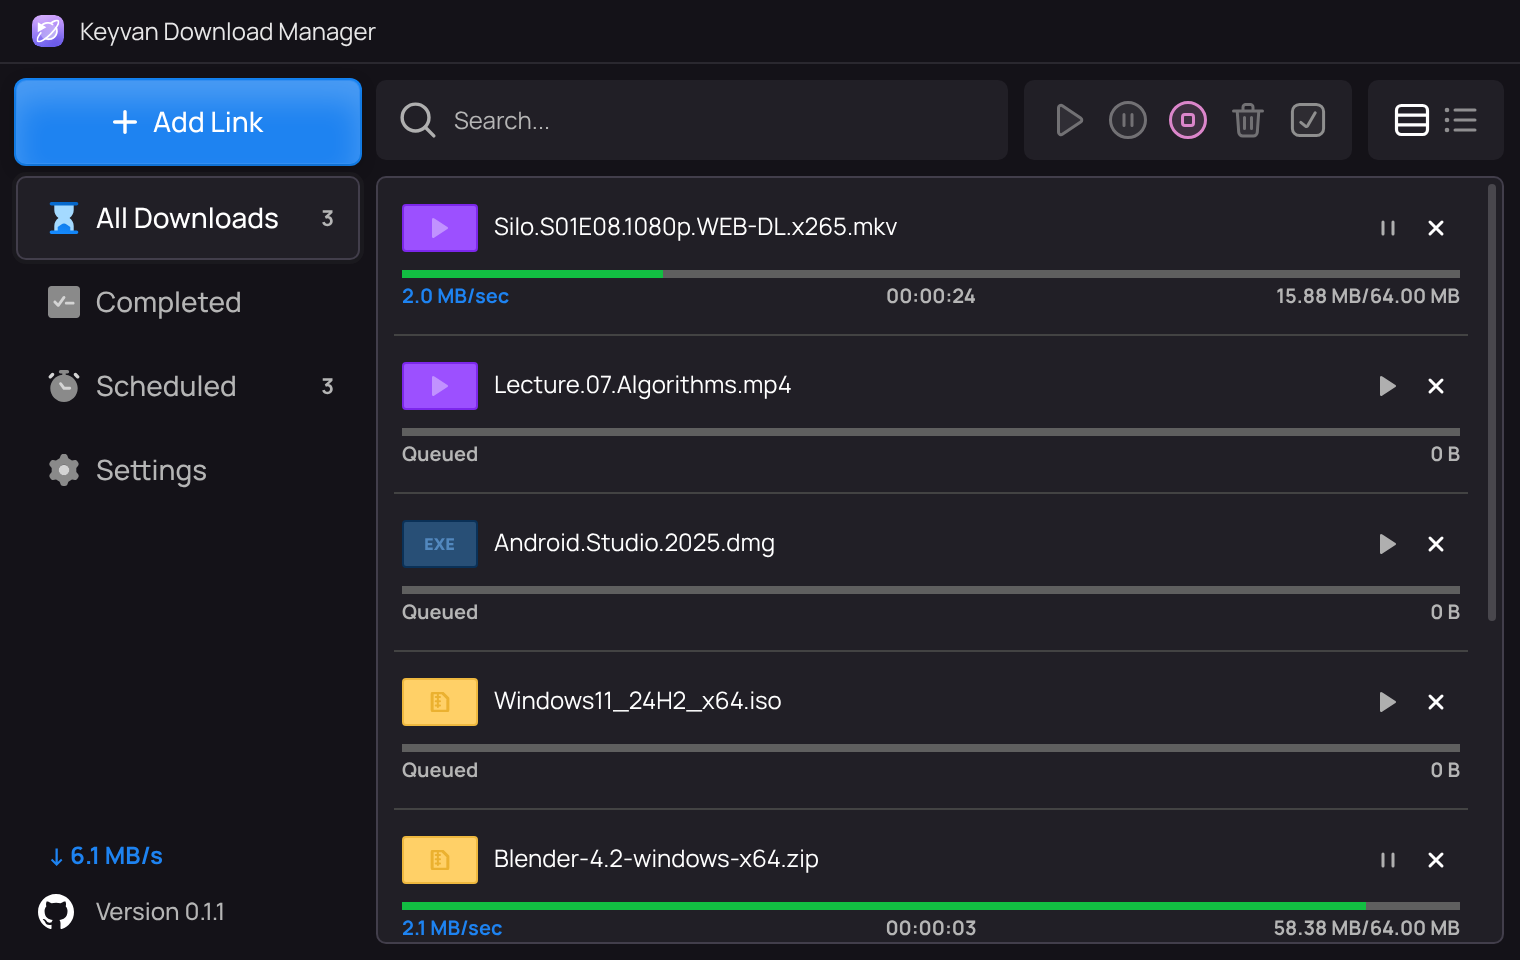
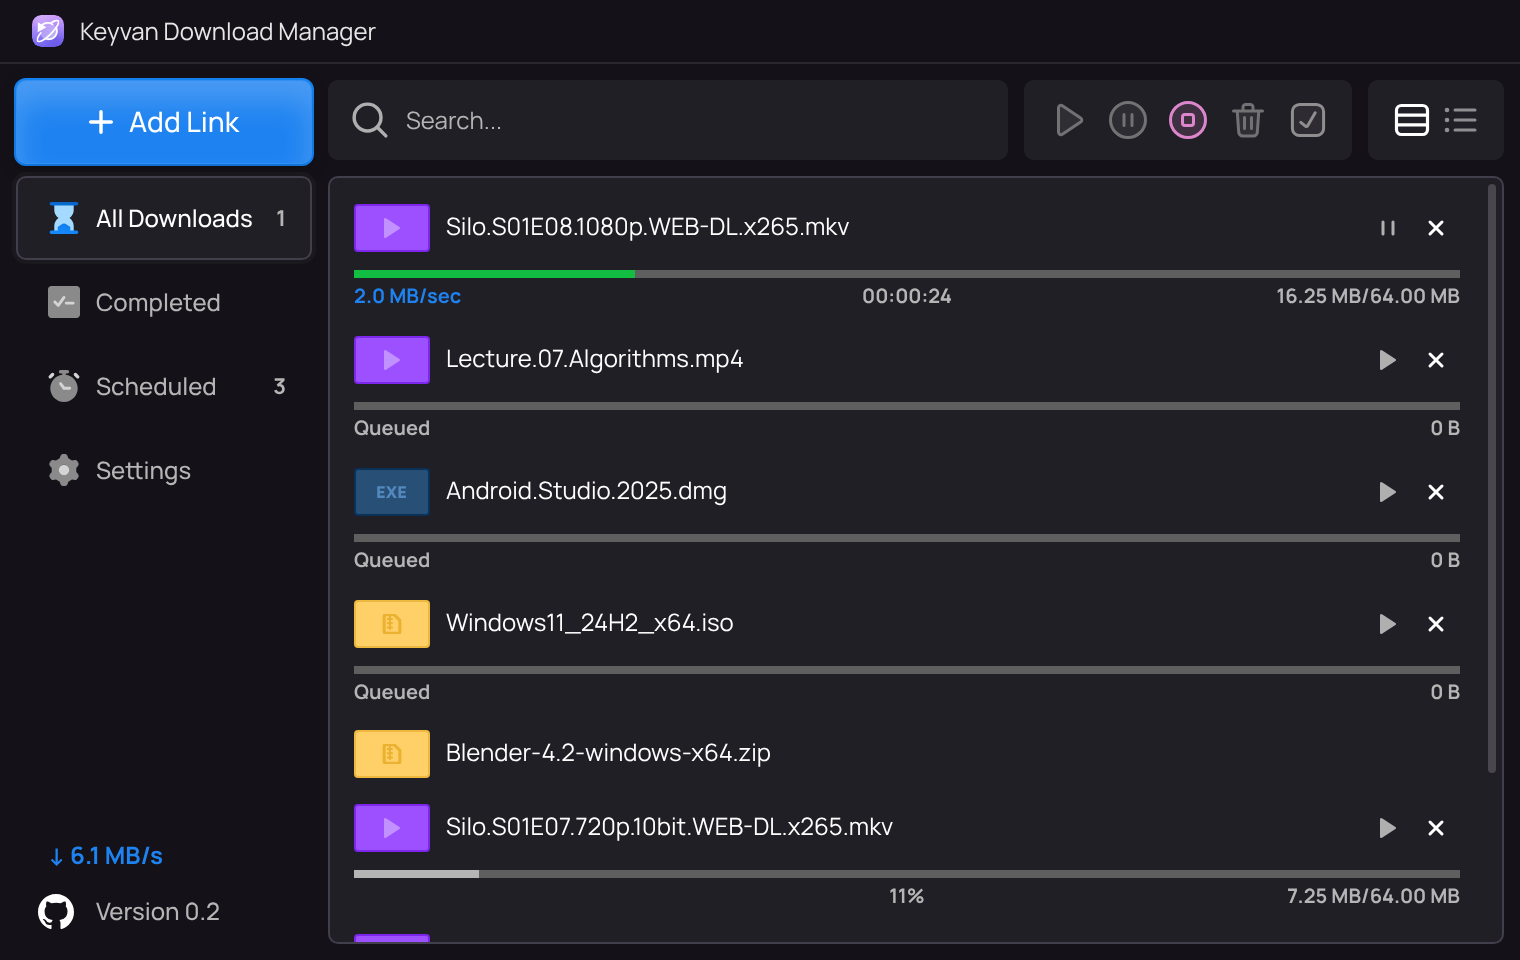
Prepare 0.2.0: release notes, README sections and screenshots (proxy, What's new, Last try)
Claude-Session: https://claude.ai/code/session_017mAQxFjq4R6oupFoLhwFHn

diff --git a/scripts/readme-shots.js b/scripts/readme-shots.js
@@ -21,7 +21,7 @@ fs.writeFileSync(path.join(tools, 'ffmpeg'), '');
 
 async function launch(theme = 'light') {
   const ud = fs.mkdtempSync(path.join(os.tmpdir(), 'kdm-shots-'));
-  fs.writeFileSync(path.join(ud, 'settings.json'), JSON.stringify({ theme, notifications: false, clipboardWatch: false, showProgressWindow: false, connections: 8, videoQuality: '1080' }));
+  fs.writeFileSync(path.join(ud, 'settings.json'), JSON.stringify({ theme, notifications: false, clipboardWatch: false, showProgressWindow: false, connections: 8, videoQuality: '1080', lastSeenVersion: require('../package.json').version }));
   const app = await electron.launch({
     executablePath: require('electron'),
     args: [root, '--no-sandbox', '--force-device-scale-factor=2'],
@@ -111,7 +111,19 @@ const shot = async (page, name) => {
   await main.click('.nav-item[data-view="settings"]');
   await sleep(500);
   await shot(main, 'settings');
+  // proxy settings: manual proxy filled in so the fields are visible
+  await main.evaluate(() => window.api.invoke('settings:set', { proxy: { mode: 'manual', type: 'socks5', host: '127.0.0.1', port: 1080, username: '', password: '' } }));
+  await sleep(500);
+  await main.evaluate(() => document.getElementById('set-proxy').scrollIntoView({ block: 'start' }));
+  await sleep(500);
+  await shot(main, 'settings-proxy');
+  await main.evaluate(() => window.api.invoke('settings:set', { proxy: { mode: 'none' } }));
   await main.click('.nav-item[data-view="all"]');
+  // "What's new" window
+  const wn = await newWindow(app, () => main.evaluate(() => window.api.invoke('whatsnew:open')));
+  await sleep(500);
+  await shot(wn, 'whats-new');
+  await wn.close().catch(() => {});
 
   // add link -> file info
   let d = await newWindow(app, () => main.click('#addLink'));

diff --git a/README.fa.md b/README.fa.md
@@ -121,6 +121,15 @@
 - مرتب کردن خودکار فایلها در پوشههای ویدیو، موزیک، فشرده، اسناد و برنامهها
 - وقتی لینک دانلودی را در هر برنامهای کپی کنید، پنجرهی *Add Link* خودش باز میشود
 - دانلودهای لغوشده در لیست میمانند تا بعداً دوباره شروعشان کنید
+- **پراکسی:** HTTP، SOCKS5 یا پراکسی سیستم، با نام کاربری و رمز اختیاری، برای دانلودها، ویدیوها و آپدیت (تنظیمات ← Proxy، با دکمهی *Test connection*)
+
+  <img src="docs/screenshots/settings-proxy.png" width="520" alt="تنظیمات پراکسی" />
+
+- ستون **Last try** در لیست فشرده زمان آخرین تلاش برای هر دانلود را نشان میدهد
+- بعد از هر آپدیت، پنجرهی **What's new** میگوید چه چیزهایی عوض شده (از تنظیمات ← About هم دوباره باز میشود)
+
+  <img src="docs/screenshots/whats-new.png" width="320" alt="پنجرهی What's new" />
+
 - آیکون در نوار وظیفه، نمایش پیشرفت روی دکمهی برنامه، اعلانها، و جلوگیری از Sleep شدن سیستم وسط دانلود
 - محاسبهی SHA-256 فایلهای دانلودشده
 - **آپدیت خودکار:** KDM نسخهی جدید را از گیتهاب پیدا میکند، دکمهی *Update Available!* را در سایدبار نشان میدهد و با یک کلیک دانلود و نصبش میکند (از تنظیمات قابل خاموش کردن است)

diff --git a/docs/release-notes/v0.2.0.md b/docs/release-notes/v0.2.0.md
@@ -1,0 +1,20 @@
+### What's new in 0.2.0
+
+- **Proxy support.** Use an HTTP or SOCKS5 proxy, or the one from your system settings, with an optional username and password (stored encrypted). It works for downloads, video downloads, tool installs and the update check. **Settings → Proxy**, with a *Test connection* button.
+- **"What's new" window.** After an update, KDM tells you what changed. You can open it again from **Settings → About**.
+- **"Last try" column.** The compact list shows the date and time of each download's last attempt.
+- **A cleaner list.** The lines between downloads and the column header row are gone, and the sidebar is a little narrower with a smaller menu font, so the list gets more room.
+- **Browser extension:** the *Download video* button now shows the real KDM logo.
+
+### Downloads
+
+| | |
+| --- | --- |
+| Windows installer | `KDM-Setup-0.2.0.exe` |
+| Windows portable (no installation) | `KDM-Portable-0.2.0.exe` |
+| Mac with Apple Silicon (M1, M2, M3, M4…) | `KDM-0.2.0-mac-arm64.dmg` |
+| Mac with Intel | `KDM-0.2.0-mac-x64.dmg` |
+
+Windows may show a SmartScreen warning: click **More info → Run anyway**. On a Mac, the first time open **System Settings → Privacy & Security** and click **Open Anyway**.
+
+Already using KDM? The **Update Available!** button in the app installs this version for you. To get the new button icon in the browser, click **Reload** on KDM in `chrome://extensions`.

diff --git a/README.md b/README.md
@@ -120,6 +120,16 @@ colors the window title bar to match.
 - Files are sorted into folders by type: Video, Music, Compressed, Documents, Programs
 - Copying a download link in any app opens *Add Link* (clipboard monitoring)
 - Canceled downloads stay in the list so you can restart them later
+- **Proxy:** HTTP, SOCKS5 or your system's proxy, with an optional login, for downloads, videos and updates
+  (Settings → Proxy, with a *Test connection* button)
+
+  <img src="docs/screenshots/settings-proxy.png" width="520" alt="Proxy settings" />
+
+- A **Last try** column in the compact list shows when each download was last attempted
+- After an update, a **What's new** window tells you what changed (Settings → About opens it again)
+
+  <img src="docs/screenshots/whats-new.png" width="320" alt="What's new window" />
+
 - Tray icon, progress on the taskbar button, notifications, and the PC stays awake while downloading
 - SHA-256 checksum of finished files
 - **Automatic updates**: KDM checks GitHub Releases, shows an *Update Available!* button in the sidebar, downloads
